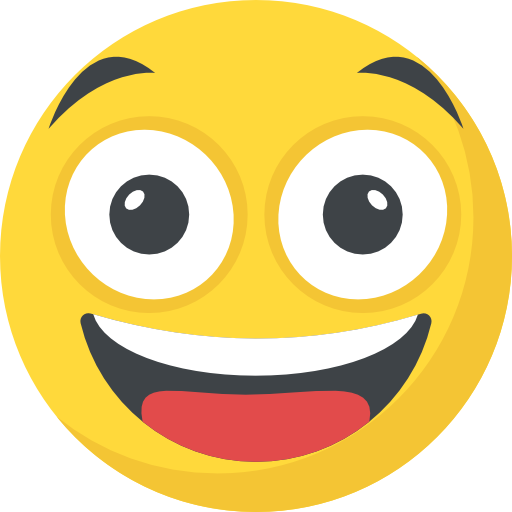
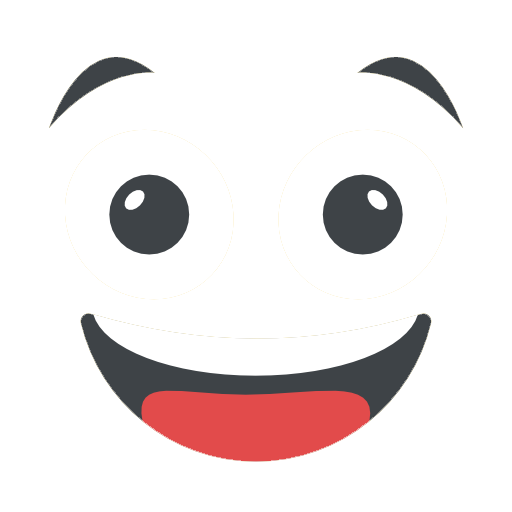
6.3 Проработать визуальную часть игры - Теперь морды и тела генерируются случайным образом. А при поедании змейка становится жирнее

diff --git a/packages/client/src/pages/Main/SnakeGame/useSnakeGame.ts b/packages/client/src/pages/Main/SnakeGame/useSnakeGame.ts
@@ -1,8 +1,63 @@
 import { useEffect, useRef, useState } from 'react';
-import playerFaceUrl from '/src/assets/faces/face-001.webp';
-import botFaceUrl from '/src/assets/faces/face-002.webp';
 import bgImgUrl from '/src/assets/bg/bg-004.webp';
 import { TGameState } from './types';
+
+/**
+ * Генерирует случайную мордочку змейки
+ */
+const totalFaces = 14;
+function getRandomFaceUrl() {
+	const faceNumber = String(
+		Math.floor(Math.random() * totalFaces) + 1,
+	).padStart(3, '0');
+	return `/src/assets/faces/face-${faceNumber}.webp`;
+}
+
+/**
+ * Генерирует случайный паттерн для тела змейки
+ */
+function getRandomSkin() {
+	const snakeSkins = [
+		['#FFD700', '#FF6347'],
+		['#00CED1', '#20B2AA'],
+		['#ADFF2F', '#556B2F'],
+		['#8A2BE2', '#4B0082'],
+		['#FF8C00', '#FF4500'],
+		['#00FF7F', '#2E8B57'],
+		['#1E90FF', '#00008B'],
+		['#DEB887', '#A52A2A'],
+		['#DC143C', '#B22222'],
+		['#F0E68C', '#DAA520'],
+		['#40E0D0', '#5F9EA0'],
+	];
+
+	const colors = snakeSkins[Math.floor(Math.random() * snakeSkins.length)];
+	const stripePattern = colors.map(() => Math.floor(Math.random() * 20) + 4); // длины от 2 до 5
+	const patternLength = stripePattern.reduce((sum, val) => sum + val, 0);
+
+	function getColorForSegment(index: number): string {
+		let i = index % patternLength;
+		for (
+			let patternIndex = 0;
+			patternIndex < stripePattern.length;
+			patternIndex++
+		) {
+			const len = stripePattern[patternIndex];
+			if (i < len) {
+				return colors[patternIndex % colors.length];
+			}
+			i -= len;
+		}
+		return colors[0];
+	}
+
+	return { colors, stripePattern, getColorForSegment };
+}
+
+const playerSkin = getRandomSkin();
+const botSkin = getRandomSkin();
+const playerFaceUrl = getRandomFaceUrl();
+const botFaceUrl = getRandomFaceUrl();
 
 export const useSnakeGame = (gameState: TGameState) => {
 	const canvasRef = useRef<HTMLCanvasElement | null>(null);
@@ -26,6 +81,8 @@ export const useSnakeGame = (gameState: TGameState) => {
 	const snakeRef = useRef([{ x: 0, y: 0 }]);
 	const foodsRef = useRef([{ x: 0, y: 0 }]);
 	const speedRef = useRef(1.5);
+	const snakeWidthRef = useRef(12);
+	const botSnakeWidthRef = useRef(12);
 	const botSnakeRef = useRef([{ x: 100, y: 100 }]);
 	const botDirectionRef = useRef(Math.random() * 2 * Math.PI);
 	const localScoreRef = useRef(0);
@@ -143,16 +200,27 @@ export const useSnakeGame = (gameState: TGameState) => {
 		function drawSnake() {
 			if (!ctx) return;
 			const snake = snakeRef.current;
+
 			for (let i = snake.length - 1; i > 0; i--) {
 				const part = snake[i];
 				const screenX = center.x + (part.x - snake[0].x);
 				const screenY = center.y + (part.y - snake[0].y);
+
+				const color = playerSkin.getColorForSegment(i);
+
 				ctx.beginPath();
-				ctx.arc(screenX, screenY, 12, 0, Math.PI * 2);
-				ctx.fillStyle = `hsl(${i * 3}, 100%, 50%)`;
+				ctx.arc(
+					screenX,
+					screenY,
+					snakeWidthRef.current,
+					0,
+					Math.PI * 2,
+				);
+				ctx.fillStyle = color;
 				ctx.fill();
 			}
 
+			// Голова змейки — с лицом или запасной круг
 			const playerFaceImg = playerFaceRef.current;
 			if (playerFaceImg && playerFaceImg.complete) {
 				const head = snake[0];
@@ -160,15 +228,28 @@ export const useSnakeGame = (gameState: TGameState) => {
 				const dx = head.x - neck.x;
 				const dy = head.y - neck.y;
 				const angle = Math.atan2(dy, dx) - Math.PI / 2;
+				const faceSize = snakeWidthRef.current * 2;
 
 				ctx.save();
 				ctx.translate(center.x, center.y);
 				ctx.rotate(angle);
-				ctx.drawImage(playerFaceImg, -12, -12, 24, 24);
+				ctx.drawImage(
+					playerFaceImg,
+					-faceSize / 2,
+					-faceSize / 2,
+					faceSize,
+					faceSize,
+				);
 				ctx.restore();
 			} else {
 				ctx.beginPath();
-				ctx.arc(center.x, center.y, 12, 0, Math.PI * 2);
+				ctx.arc(
+					center.x,
+					center.y,
+					snakeWidthRef.current,
+					0,
+					Math.PI * 2,
+				);
 				ctx.fillStyle = '#a10';
 				ctx.fill();
 			}
@@ -185,11 +266,21 @@ export const useSnakeGame = (gameState: TGameState) => {
 				const part = botSnake[i];
 				const screenX = center.x + (part.x - snake[0].x);
 				const screenY = center.y + (part.y - snake[0].y);
+
+				const color = botSkin.getColorForSegment(i);
+
 				ctx.beginPath();
-				ctx.arc(screenX, screenY, 10, 0, Math.PI * 2);
-				ctx.fillStyle = `hsl(${i * 4}, 80%, 40%)`;
+				ctx.arc(
+					screenX,
+					screenY,
+					botSnakeWidthRef.current,
+					0,
+					Math.PI * 2,
+				);
+				ctx.fillStyle = color;
 				ctx.fill();
 			}
+
 			const head = botSnake[0];
 			const neck = botSnake[1] || head;
 			const headX = center.x + (head.x - snake[0].x);
@@ -200,11 +291,18 @@ export const useSnakeGame = (gameState: TGameState) => {
 				const dx = head.x - neck.x;
 				const dy = head.y - neck.y;
 				const angle = Math.atan2(dy, dx) - Math.PI / 2;
+				const faceSize = botSnakeWidthRef.current * 2;
 
 				ctx.save();
 				ctx.translate(headX, headY);
 				ctx.rotate(angle);
-				ctx.drawImage(botFaceImg, -10, -10, 20, 20);
+				ctx.drawImage(
+					botFaceImg,
+					-faceSize / 2,
+					-faceSize / 2,
+					faceSize,
+					faceSize,
+				);
 				ctx.restore();
 			} else {
 				ctx.beginPath();
@@ -272,6 +370,7 @@ export const useSnakeGame = (gameState: TGameState) => {
 						localScoreRef.current++;
 						setScore(localScoreRef.current);
 						speedRef.current += 0.1;
+						snakeWidthRef.current += 0.1;
 						for (let i = 0; i < 10; i++) {
 							snake.push({ ...snake[snake.length - 1] });
 						}